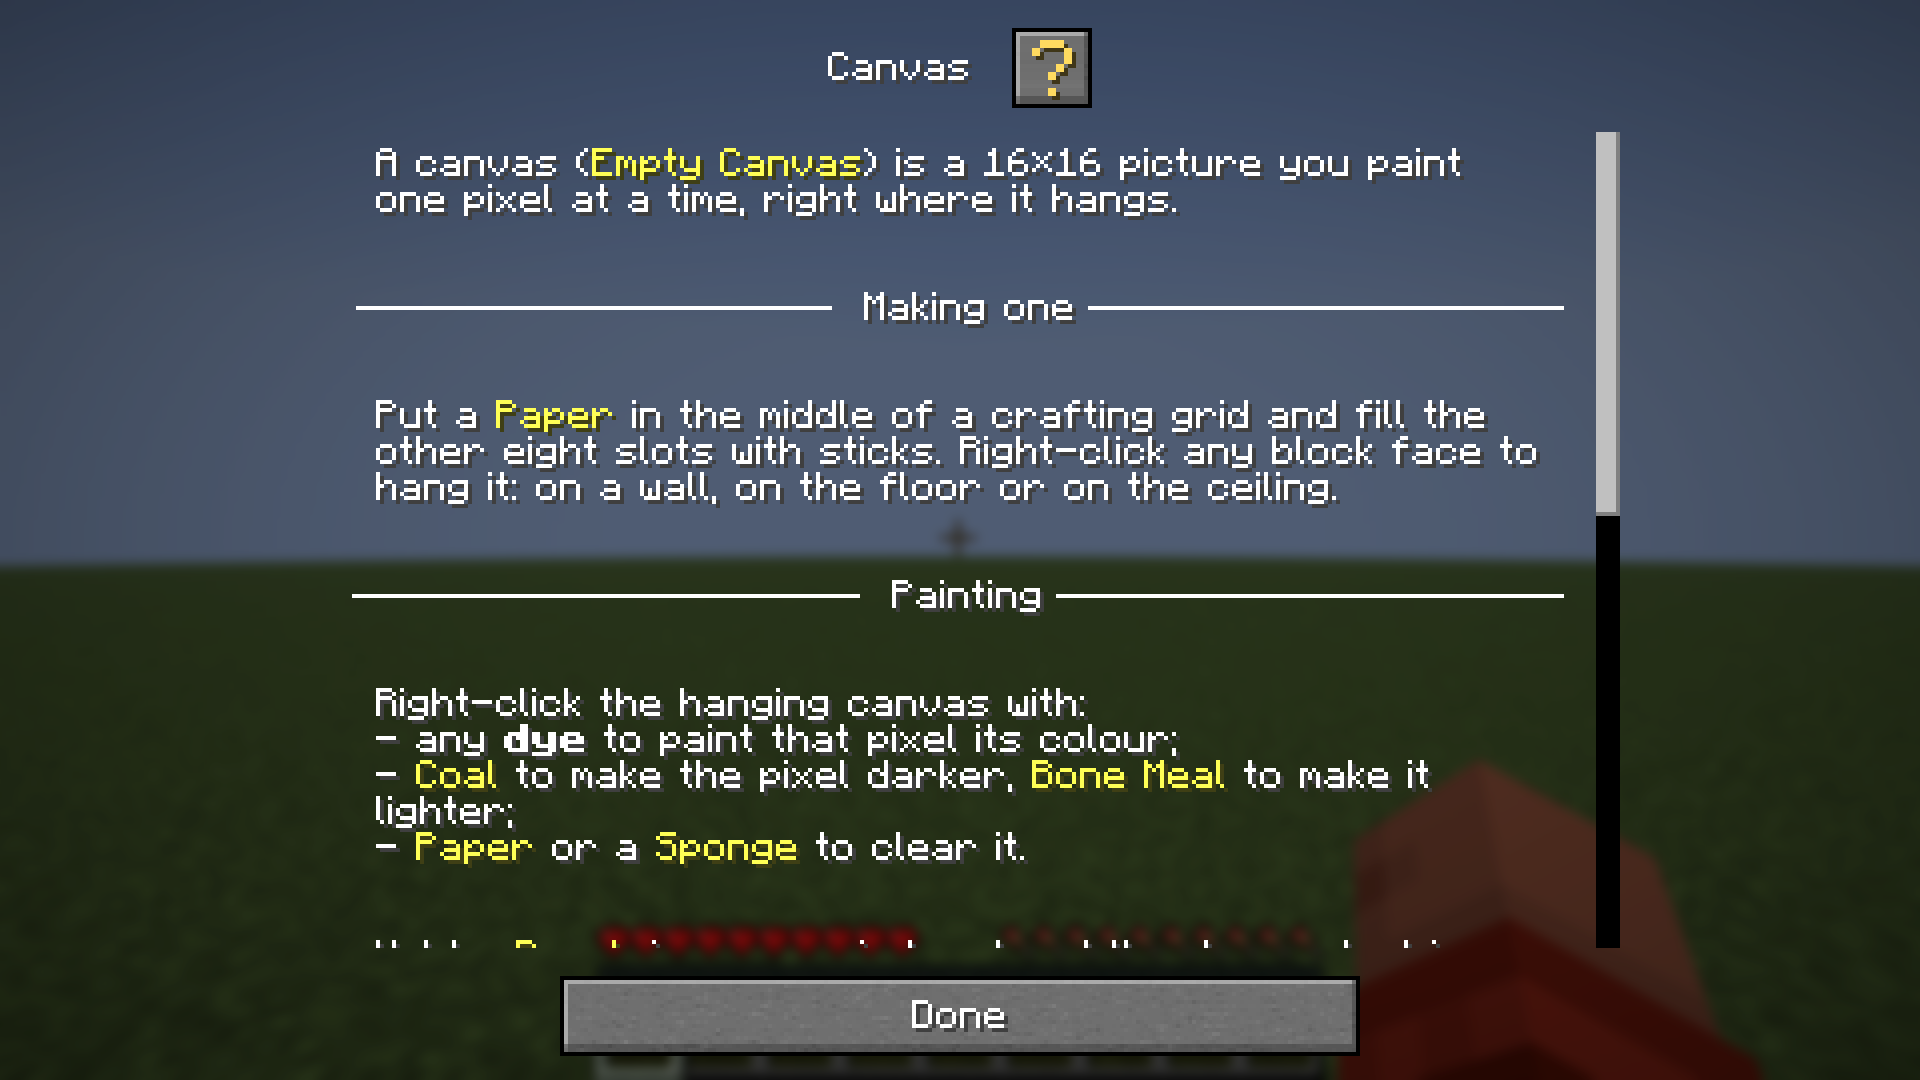
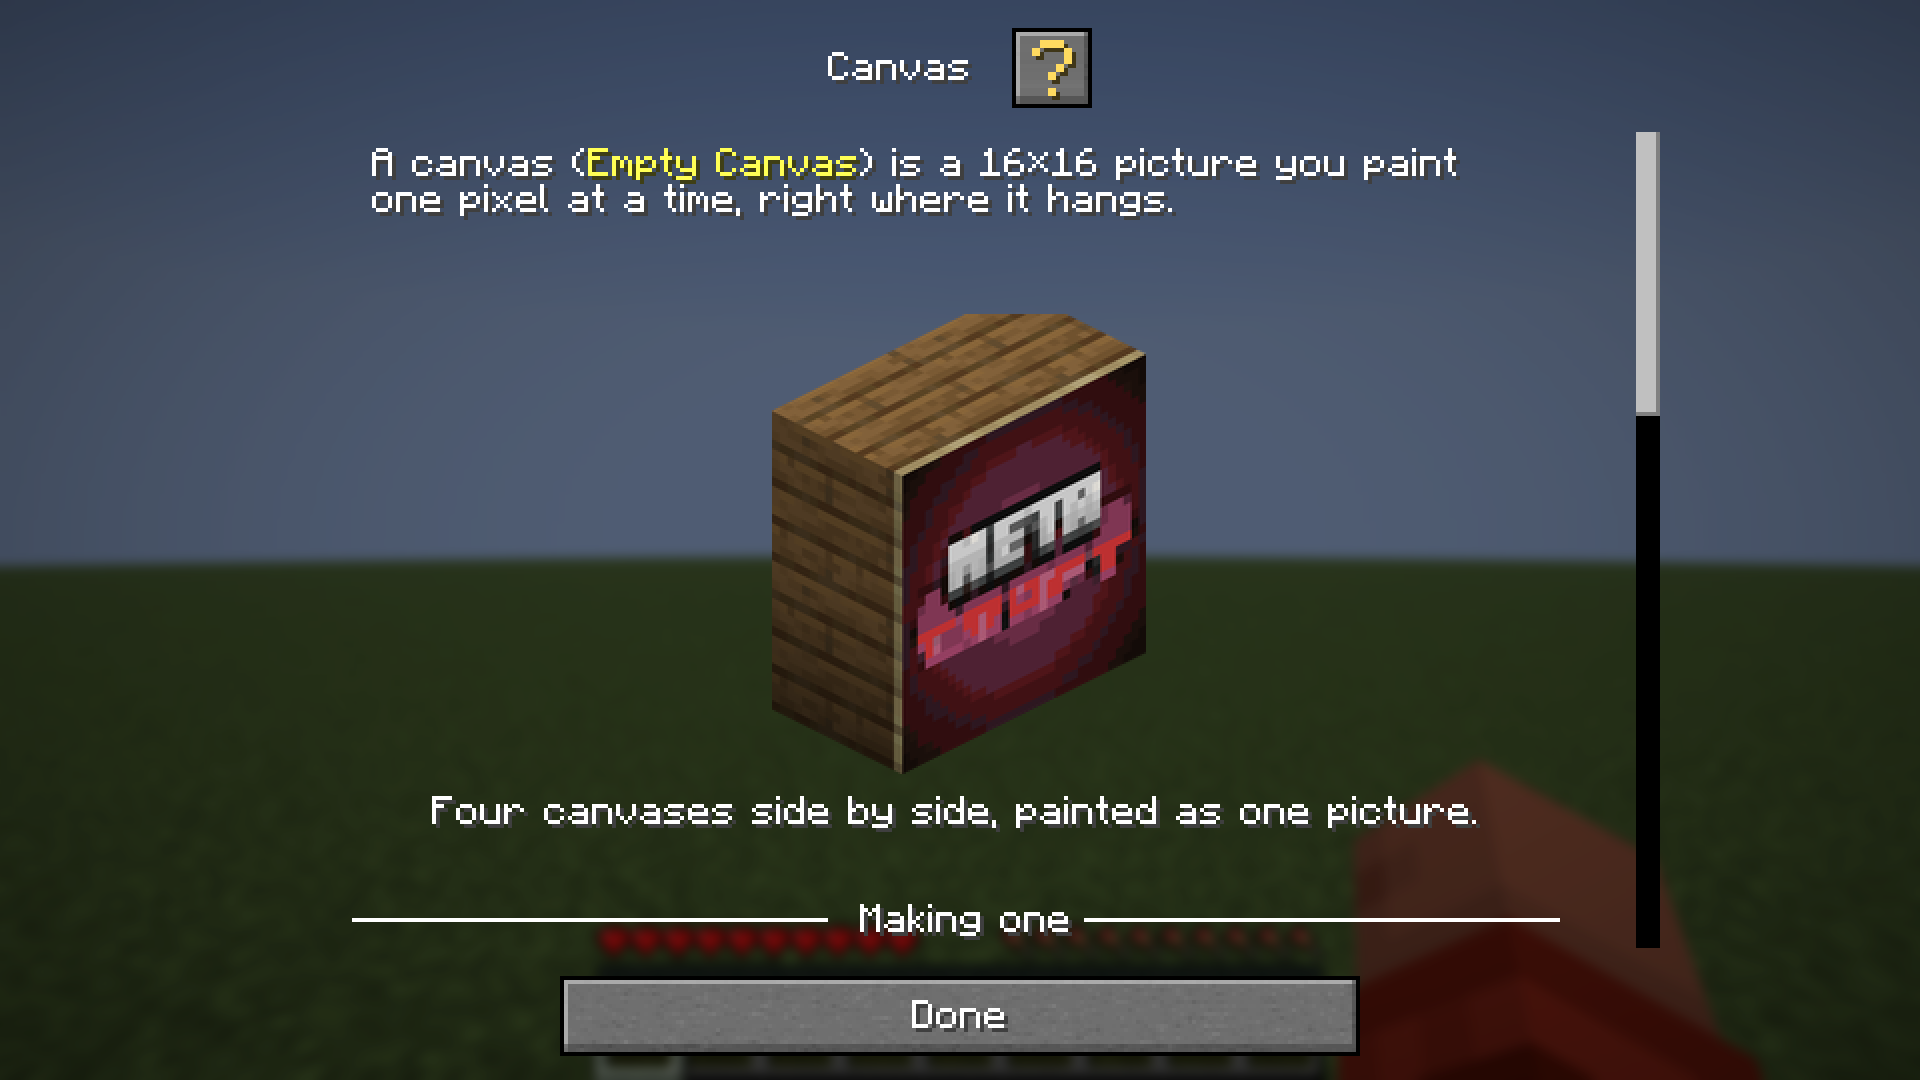
metacraft-booklet: isometric page images, rendered with Patbox's Simple Image Renderer
The pages now carry pictures in the style of PolyFactory's guide: isometric renders on a
transparent background. BookletRenders (a client test, only with METACRAFT_BOOKLET_RENDER=1)
builds each scene in a flat world and renders it with Simple Image Renderer's region
renderer, from inside a screen over thirty frames the way its own preview does, so entity
textures and the canvases' maps are in before the picture is kept. tools/booklet_images.py
trims the renders onto 584 px wide images, which Booklet shows at half size.

Five pictures: a Data ovve with patches front, sleeve, shoulder and legs; its back with the
big back cell and a seat patch; the four chapters' garments; an IT ovve on an armour stand;
and the METAcraft logo painted across a 2×2 wall of canvases. GuideTests checks every image
a page names is in the pack.

Changed region(s): [[0.1875, 0.1222, 0.875, 0.8861], [0.1875, 0.1222, 0.7812, 0.2139]]

diff --git a/mods/metacraft-booklet/src/gametest/java/nu/metacraft/booklet/clienttest/BookletRenders.java b/mods/metacraft-booklet/src/gametest/java/nu/metacraft/booklet/clienttest/BookletRenders.java
@@ -1,0 +1,225 @@
+package nu.metacraft.booklet.clienttest;
+
+import eu.pb4.mapcanvas.api.utils.CanvasUtils;
+import eu.pb4.polydecorations.canvas.CanvasData;
+import eu.pb4.polydecorations.canvas.CanvasPixels;
+import eu.pb4.polydecorations.entity.CanvasEntity;
+import eu.pb4.polydecorations.item.DecorationsDataComponents;
+import eu.pb4.polydecorations.item.DecorationsItems;
+import eu.pb4.simpleimagerenderer.renderer.RegionImageRenderer;
+import eu.pb4.simpleimagerenderer.renderer.RendererSettings;
+import metacraft.ovvar.content.Chapter;
+import metacraft.ovvar.content.Looks;
+import metacraft.ovvar.content.ModComponents;
+import metacraft.ovvar.content.ModContent;
+import metacraft.ovvar.content.OvveItem;
+import metacraft.ovvar.content.Patches;
+import metacraft.ovvar.content.Placement;
+import metacraft.ovvar.content.Spot;
+import metacraft.ovvar.content.SpotPlacements;
+import net.fabricmc.fabric.api.client.gametest.v1.FabricClientGameTest;
+import net.fabricmc.fabric.api.client.gametest.v1.context.ClientGameTestContext;
+import net.fabricmc.fabric.api.client.gametest.v1.context.TestDedicatedServerConnection;
+import net.fabricmc.fabric.api.client.gametest.v1.context.TestDedicatedServerContext;
+import net.fabricmc.loader.api.FabricLoader;
+import net.minecraft.client.gui.screens.ConfirmScreen;
+import net.minecraft.core.BlockBox;
+import net.minecraft.core.BlockPos;
+import net.minecraft.core.Direction;
+import net.minecraft.core.Rotations;
+import net.minecraft.server.level.ServerLevel;
+import net.minecraft.world.entity.EntityTypes;
+import net.minecraft.world.entity.EquipmentSlot;
+import net.minecraft.world.entity.decoration.ArmorStand;
+import net.minecraft.world.entity.decoration.Mannequin;
+import net.minecraft.world.item.ItemStack;
+import net.minecraft.world.level.block.Blocks;
+
+import javax.imageio.ImageIO;
+import java.awt.image.BufferedImage;
+import java.io.IOException;
+import java.io.InputStream;
+import java.nio.file.Files;
+import java.nio.file.Path;
+import java.util.List;
+import java.util.Optional;
+import java.util.Properties;
+
+/**
+ * The guidebook's page images, the way Patbox makes PolyFactory's: each scene is built in a flat
+ * world and rendered isometric, on a transparent background, with his
+ * <a href="https://github.com/Patbox/SimpleImageRenderer">Simple Image Renderer</a> — a client-only
+ * tool, here only in the client test runtime.
+ *
+ * <pre>
+ *   METACRAFT_BOOKLET_RENDER=1 ./gradlew :mods:metacraft-booklet:runClientGameTest
+ * </pre>
+ * writes {@code build/booklet-renders/<name>.png}; {@code
+ * tools/booklet_images.py} trims them into {@code assets/metacraft/textures/booklet/image/}. Without
+ * the variable this does nothing: it makes pictures, it checks nothing.
+ */
+public final class BookletRenders implements FabricClientGameTest {
+	private static final int SIZE = 768;
+	/** The isometric view: 30° down, 45° round, as PolyFactory's images are. */
+	private static final int PITCH = -30, YAW = 45;
+
+	private record Scene(String name, BlockPos from, BlockPos to, int scale) {}
+
+	@Override
+	public void runTest(ClientGameTestContext ctx) {
+		if (!"1".equals(System.getenv("METACRAFT_BOOKLET_RENDER"))) return;
+		// build/booklet-renders: outside the run directory, which the harness clears between runs.
+		Path out = FabricLoader.getInstance().getGameDir().resolve("../../booklet-renders").normalize();
+
+		Properties props = new Properties();
+		props.setProperty("online-mode", "false");
+		props.setProperty("server-port", "25603");
+		props.setProperty("level-type", "minecraft:flat");
+		props.setProperty("spawn-monsters", "false");
+		props.setProperty("spawn-animals", "false");
+		props.setProperty("difficulty", "peaceful");
+		try (TestDedicatedServerContext server = ctx.worldBuilder().createServer(props)) {
+			try (TestDedicatedServerConnection conn = server.connect()) {
+				acceptResourcePack(ctx);
+				conn.waitForChunksRender();
+				server.runCommand("gamerule advance_time false");
+				server.runCommand("time set noon");
+				server.runCommand("gamemode spectator Tester");
+				server.runCommand("tp Tester 30 -50 10 0 30");
+
+				server.runOnServer(mc -> build(mc.overworld()));
+				ctx.waitTicks(100);        // ovvar builds the patch combinations the mannequins wear
+				// A pack is only pushed to a player whose own ovve outgrew it; nobody here wears one, so ask.
+				server.runCommand("execute as Tester run ovvar reload");
+				acceptResourcePack(ctx);
+				conn.waitForClientboundPackets();
+				ctx.waitTicks(100);        // spawn interpolation, stand sprites, the pack's textures
+
+				Files.createDirectories(out);
+				for (Scene scene : SCENES) Files.createDirectories(out.resolve(scene.name()).getParent());
+				for (Scene scene : SCENES) {
+					Path file = out.resolve(scene.name() + ".png");
+					ctx.runOnClient(client -> {
+						RendererSettings settings = RendererSettings.defaultSettings.clone();
+						settings.pitch = PITCH;
+						settings.yaw = YAW;
+						settings.scale = scene.scale();
+						var renderer = new RegionImageRenderer(client, SIZE, SIZE, client.level, BlockBox.of(scene.from(), scene.to()), false, false);
+						settings.updateMatrix(renderer);
+						client.gui.setScreen(new RenderScreen(renderer, file));
+					});
+					ctx.waitFor(client -> !(client.gui.screen() instanceof RenderScreen), 20 * 30);
+					ctx.waitTicks(5);
+				}
+				ctx.waitTicks(20);
+				for (Scene scene : SCENES) {
+					if (!Files.exists(out.resolve(scene.name() + ".png"))) throw new AssertionError("no render of " + scene.name());
+				}
+				System.out.println("[metacraft-booklet] rendered " + SCENES.size() + " page image(s) to " + out.toAbsolutePath());
+			} catch (IOException e) {
+				throw new AssertionError(e);
+			}
+		}
+	}
+
+	private static final List<Scene> SCENES = List.of(
+			new Scene("ovvar/hero", new BlockPos(20, -60, 20), new BlockPos(20, -58, 20), 60),
+			new Scene("ovvar/back", new BlockPos(24, -60, 20), new BlockPos(24, -58, 20), 60),
+			new Scene("ovvar/chapters", new BlockPos(28, -60, 20), new BlockPos(34, -58, 20), 70),
+			new Scene("ovvar/stand", new BlockPos(40, -60, 20), new BlockPos(40, -58, 20), 60),
+			new Scene("canvas/wall", new BlockPos(44, -60, 20), new BlockPos(45, -59, 21), 70));
+
+	private static void build(ServerLevel level) {
+		// ---- ovvar
+		ItemStack front = ovve(Chapter.DATA, List.of(
+				new Placement(Spot.FRONT_TOP_LEFT, Patches.get("itk")),
+				new Placement(Spot.FRONT_TOP_RIGHT, Patches.get("nyckeln0x0")),
+				new Placement(Spot.FRONT_LOW_LEFT, Patches.get("it")),
+				new Placement(Spot.FRONT_LOW_RIGHT, Patches.get("data")),
+				new Placement(Spot.SLEEVE_OUT_TOP_L, Patches.get("spiken")),
+				new Placement(Spot.SLEEVE_OUT_TOP_R, Patches.get("slaggan")),
+				new Placement(Spot.SHOULDER_R, Patches.get("itk")),
+				new Placement(Spot.LEG_OUT_TOP_R, Patches.get("tmeit")),
+				new Placement(Spot.LEG_OUT_TOP_L, Patches.get("jgs"))));
+		mannequin(level, 20, Chapter.DATA, front, 45);
+		ItemStack back = ovve(Chapter.DATA, List.of(
+				new Placement(Spot.BACK_BIG, Patches.get("it")),
+				new Placement(Spot.BACK_TOP_LEFT, Patches.get("in")),
+				new Placement(Spot.BACK_TOP_RIGHT, Patches.get("in_gold")),
+				new Placement(Spot.SEAT, Patches.get("rivals"))));
+		mannequin(level, 24, Chapter.DATA, back, 225);
+		int x = 28;
+		for (Chapter chapter : List.of(Chapter.DATA, Chapter.IT, Chapter.IT_KISEL, Chapter.MEDIA)) {
+			mannequin(level, x, chapter, ovve(chapter, List.of(new Placement(Spot.FRONT_TOP_LEFT, Patches.get("itk")))), 45);
+			x += 2;
+		}
+		ArmorStand stand = new ArmorStand(EntityTypes.ARMOR_STAND, level);
+		stand.setPos(40.5, -60, 20.5);
+		stand.setYRot(45);
+		stand.setShowArms(true);
+		stand.setLeftArmPose(new Rotations(-20, 0, -10));
+		stand.setRightArmPose(new Rotations(-15, 0, 10));
+		stand.setItemSlot(EquipmentSlot.LEGS, ovve(Chapter.IT, List.of(
+				new Placement(Spot.FRONT_TOP_LEFT, Patches.get("data")),
+				new Placement(Spot.FRONT_LOW_RIGHT, Patches.get("kommn")),
+				new Placement(Spot.SLEEVE_OUT_TOP_R, Patches.get("itk")))));
+		level.addFreshEntity(stand);
+
+		// ---- canvas: a 2×2 wall of planks with a 32×32 picture across four canvases on its south face,
+		// the face the camera sees
+		for (int dx = 0; dx < 2; dx++) for (int dy = 0; dy < 2; dy++) {
+			level.setBlockAndUpdate(new BlockPos(44 + dx, -60 + dy, 20), Blocks.SPRUCE_PLANKS.defaultBlockState());
+		}
+		BufferedImage picture = picture();
+		for (int cx = 0; cx < 2; cx++) for (int cy = 0; cy < 2; cy++) {
+			CanvasPixels pixels = new CanvasPixels();
+			for (int px = 0; px < 16; px++) for (int py = 0; py < 16; py++) {
+				int argb = picture.getRGB(cx * 16 + px, (1 - cy) * 16 + py);
+				pixels.setRaw(px, py, (argb >>> 24) < 128 ? 0 : CanvasUtils.findClosestRawColorARGB(argb | 0xFF000000));
+			}
+			ItemStack canvas = new ItemStack(DecorationsItems.CANVAS);
+			canvas.set(DecorationsDataComponents.CANVAS_DATA, new CanvasData(Optional.of(pixels), Optional.empty(), false, false, false));
+			CanvasEntity entity = CanvasEntity.create(level, Direction.SOUTH, new BlockPos(44 + cx, -60 + cy, 21), 0);
+			entity.loadFromStack(canvas);
+			level.addFreshEntity(entity);
+		}
+	}
+
+	private static ItemStack ovve(Chapter chapter, List<Placement> placements) {
+		ItemStack ovve = new ItemStack(ModContent.ovve(chapter));
+		OvveItem.setTopUp(ovve, true);
+		Looks.setSewn(ovve, SpotPlacements.fromList(placements).getOrThrow());
+		return ovve;
+	}
+
+	private static void mannequin(ServerLevel level, int x, Chapter chapter, ItemStack ovve, float yaw) {
+		Mannequin m = new Mannequin(EntityTypes.MANNEQUIN, level);
+		m.setPos(x + 0.5, -60, 20.5);
+		m.setYRot(yaw); m.setYBodyRot(yaw); m.setYHeadRot(yaw);
+		m.setItemSlot(EquipmentSlot.LEGS, ovve);
+		ItemStack top = new ItemStack(ModContent.top(chapter));
+		top.set(ModComponents.PATCHES, ovve.get(ModComponents.PATCHES));
+		m.setItemSlot(EquipmentSlot.CHEST, top);
+		level.addFreshEntity(m);
+	}
+
+	/** The picture on the canvas wall: METAcraft's icon at 32×32. */
+	private static BufferedImage picture() {
+		try (InputStream in = BookletRenders.class.getResourceAsStream("/assets/metacraft-booklet/icon.png")) {
+			BufferedImage src = ImageIO.read(in);
+			BufferedImage out = new BufferedImage(32, 32, BufferedImage.TYPE_INT_ARGB);
+			var g = out.createGraphics();
+			g.drawImage(src, 0, 0, 32, 32, null);
+			g.dispose();
+			return out;
+		} catch (IOException e) {
+			throw new AssertionError(e);
+		}
+	}
+
+	private static void acceptResourcePack(ClientGameTestContext ctx) {
+		ctx.waitTicks(20);
+		ctx.waitFor(client -> client.gui.overlay() == null && !(client.gui.screen() instanceof ConfirmScreen), 20 * 90);
+		ctx.waitTicks(20);
+	}
+}

diff --git a/mods/metacraft-booklet/tools/booklet_images.py b/mods/metacraft-booklet/tools/booklet_images.py
@@ -1,0 +1,41 @@
+#!/usr/bin/env python3
+"""Trims BookletRenders' output into the page images Booklet shows.
+
+    METACRAFT_BOOKLET_RENDER=1 ./gradlew :mods:metacraft-booklet:runClientGameTest
+    python3 mods/metacraft-booklet/tools/booklet_images.py
+
+Each render is cut to what was drawn (the background is transparent) and laid, centred, on a
+transparent image WIDTH px wide. Booklet draws an image at one pixel per UI pixel up to 292 px wide
+and divides larger ones by ceil(width / 292), so a 584 px image is shown at half size: twice the
+detail in the same space. The subject is scaled to fit BOX (in image pixels, so half that in UI
+pixels). The result goes to src/main/resources/assets/metacraft/textures/booklet/image/<name>.png.
+"""
+from pathlib import Path
+from PIL import Image
+
+MODULE = Path(__file__).resolve().parent.parent
+SRC = MODULE / "build/booklet-renders"
+DST = MODULE / "src/main/resources/assets/metacraft/textures/booklet/image"
+WIDTH = 584
+BOX = {"ovvar/chapters": (480, 260), "canvas/wall": (400, 230)}
+DEFAULT_BOX = (400, 240)
+PAD = 6
+
+for src in sorted(SRC.rglob("*.png")):
+    name = src.relative_to(SRC).with_suffix("").as_posix()
+    if name.startswith("probe/"):
+        continue
+    im = Image.open(src).convert("RGBA")
+    box = im.getbbox()
+    if box is None:
+        raise SystemExit(f"{name}: the render is empty")
+    im = im.crop(box)
+    bw, bh = BOX.get(name, DEFAULT_BOX)
+    scale = min(bw / im.width, bh / im.height)
+    im = im.resize((max(1, round(im.width * scale)), max(1, round(im.height * scale))), Image.LANCZOS)
+    out = Image.new("RGBA", (WIDTH, im.height + 2 * PAD))
+    out.alpha_composite(im, ((WIDTH - im.width) // 2, PAD))
+    dst = DST / f"{name}.png"
+    dst.parent.mkdir(parents=True, exist_ok=True)
+    out.save(dst, optimize=True)
+    print(f"{name}: {out.size[0]}x{out.size[1]} -> {dst.relative_to(MODULE)}")

diff --git a/mods/metacraft-booklet/src/gametest/java/nu/metacraft/booklet/clienttest/RenderScreen.java b/mods/metacraft-booklet/src/gametest/java/nu/metacraft/booklet/clienttest/RenderScreen.java
@@ -1,0 +1,51 @@
+package nu.metacraft.booklet.clienttest;
+
+import eu.pb4.simpleimagerenderer.renderer.AbstractImageRenderer;
+import eu.pb4.simpleimagerenderer.util.RenderUtils;
+import net.minecraft.client.gui.GuiGraphicsExtractor;
+import net.minecraft.client.gui.screens.Screen;
+import net.minecraft.network.chat.Component;
+
+import java.nio.file.Path;
+
+/**
+ * Drives one Simple Image Renderer render the way its own preview screen does: inside a frame, over
+ * and over, so the entities' textures and the canvases' maps are uploaded before the picture is
+ * kept. The last frame is written to {@code file} and the screen closes itself.
+ */
+final class RenderScreen extends Screen {
+	private static final int FRAMES = 30;
+	private final AbstractImageRenderer<?> renderer;
+	private final Path file;
+	private int frame;
+	volatile boolean done;
+
+	RenderScreen(AbstractImageRenderer<?> renderer, Path file) {
+		super(Component.literal("render"));
+		this.renderer = renderer;
+		this.file = file;
+	}
+
+	@Override
+	public void extractRenderState(GuiGraphicsExtractor graphics, int mouseX, int mouseY, float delta) {
+		super.extractRenderState(graphics, mouseX, mouseY, delta);
+		if (this.done) return;
+		this.frame++;
+		if (this.frame < FRAMES) {
+			this.renderer.render((target, object, f) -> {}, true);
+		} else if (this.frame == FRAMES) {
+			this.renderer.render((target, object, f) -> {
+				try {
+					RenderUtils.writeToNativeImage(target, image -> image.writeToFile(this.file));
+				} catch (Throwable e) {
+					throw new AssertionError("could not write " + this.file, e);
+				}
+			}, false);
+		} else if (this.frame >= FRAMES + 10) {
+			// The write copies the target off the GPU over the next frames; only then may it go.
+			this.done = true;
+			this.renderer.close();
+			this.minecraft.gui.setScreen(null);
+		}
+	}
+}

diff --git a/mods/metacraft-booklet/src/main/java/nu/metacraft/booklet/gametest/GuideTests.java b/mods/metacraft-booklet/src/main/java/nu/metacraft/booklet/gametest/GuideTests.java
@@ -31,6 +31,7 @@ public final class GuideTests {
 	private static final String LANG = "en_us";
 	private static final Pattern PAGE_LINK = Pattern.compile("<page(?:link|ref)\\s+'([^']+)'");
 	private static final Pattern ITEM = Pattern.compile("<c?item\\s+'([^']+)'");
+	private static final Pattern IMAGE = Pattern.compile("(?m)^### Image:\\s*(\\S+)");
 	private static final Pattern CATEGORY = Pattern.compile("(?m)^category=(.*)$");
 	private static final Identifier BOOKSHELF = Identifier.fromNamespaceAndPath("booklet", "main_page");
 
@@ -114,6 +115,24 @@ public final class GuideTests {
 			while (items.find()) {
 				Identifier item = Identifier.tryParse(items.group(1));
 				if (item == null || !BuiltInRegistries.ITEM.containsKey(item)) wrong.add(entry.getKey() + " names item " + items.group(1));
+			}
+		}
+		if (!wrong.isEmpty()) helper.fail(String.join("; ", wrong));
+		helper.succeed();
+	}
+
+	@GameTest
+	public void everyImageInTheGuideIsInThePack(GameTestHelper helper) {
+		// Booklet finds an image in the resource pack; one that is not there is a gap on the page.
+		var self = FabricLoader.getInstance().getModContainer(MetacraftBooklet.MOD_ID).orElseThrow();
+		List<String> wrong = new ArrayList<>();
+		for (var entry : pages(helper).entrySet()) {
+			Matcher images = IMAGE.matcher(entry.getValue());
+			while (images.find()) {
+				Identifier image = Identifier.tryParse(images.group(1));
+				if (image == null || self.findPath("assets/" + image.getNamespace() + "/textures/booklet/image/" + image.getPath() + ".png").isEmpty()) {
+					wrong.add(entry.getKey() + " shows image " + images.group(1) + ", which is not in this mod's assets");
+				}
 			}
 		}
 		if (!wrong.isEmpty()) helper.fail(String.join("; ", wrong));

diff --git a/mods/metacraft-booklet/README.md b/mods/metacraft-booklet/README.md
@@ -26,6 +26,22 @@ lines are lists and numbered lines are not, and `<anything>` in angle brackets i
 **metacraft-kultur** has no chapter yet: the mod was not available when this was written. Its hook is the
 same shape as the others.
 
+## Page images
+
+The pictures on the pages are isometric renders on a transparent background, made the way Patbox makes
+PolyFactory's: with his client-only [Simple Image Renderer](https://github.com/Patbox/SimpleImageRenderer),
+here driven by a client test instead of by hand. `BookletRenders` builds each scene in a flat world
+(mannequins in patched ovvar, a sewing stand, a painted wall of canvases) and renders it; the tool script
+trims the renders into `src/main/resources/assets/metacraft/textures/booklet/image/`:
+
+    METACRAFT_BOOKLET_RENDER=1 ./gradlew :mods:metacraft-booklet:runClientGameTest
+    python3 mods/metacraft-booklet/tools/booklet_images.py
+
+Booklet draws an image at one pixel per UI pixel up to 292 px wide and divides wider ones by
+`ceil(width / 292)`, so the script lays every picture on a 584 px wide transparent image: shown at half
+size, twice as sharp. A page shows one with `### Image: metacraft:<path> Caption`; `GuideTests` fails if
+the image is missing. A new scene is a line in `BookletRenders.SCENES` and a few in its `build`.
+
 ## PolyDecorations: canvas only
 
 PolyDecorations has no config to switch features off, so `polydecorations_canvas_only` overrides every
